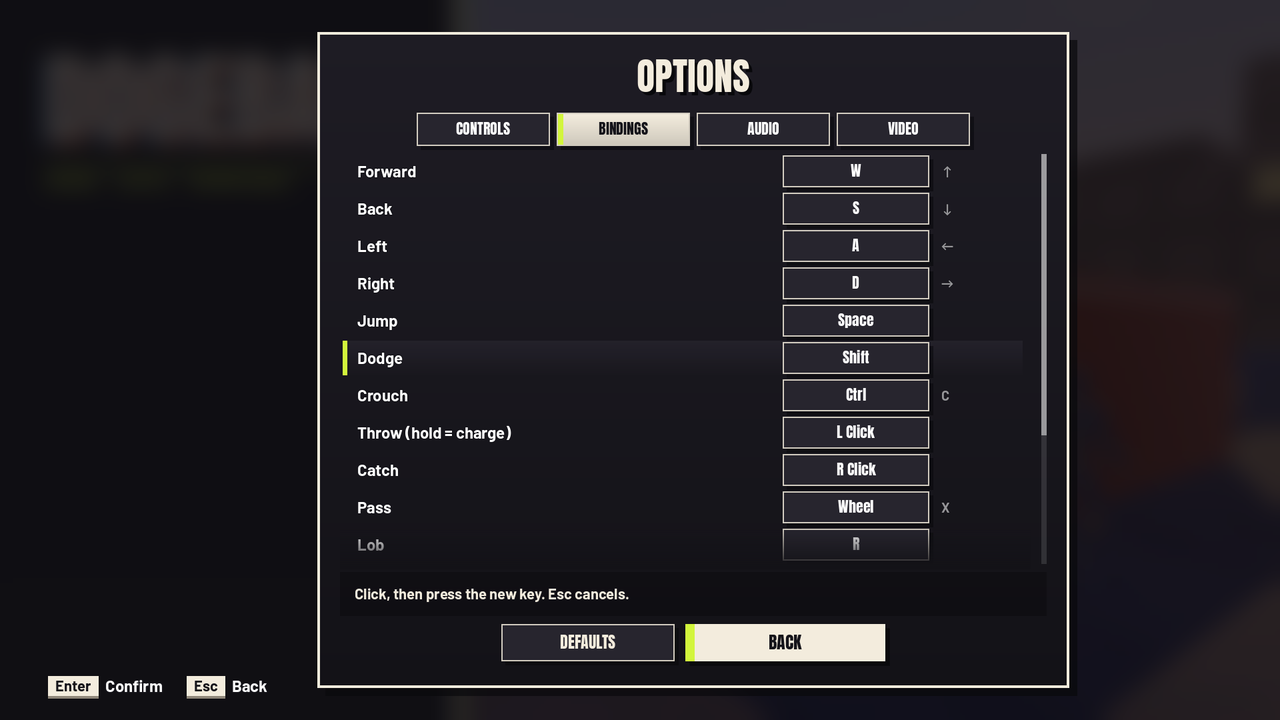
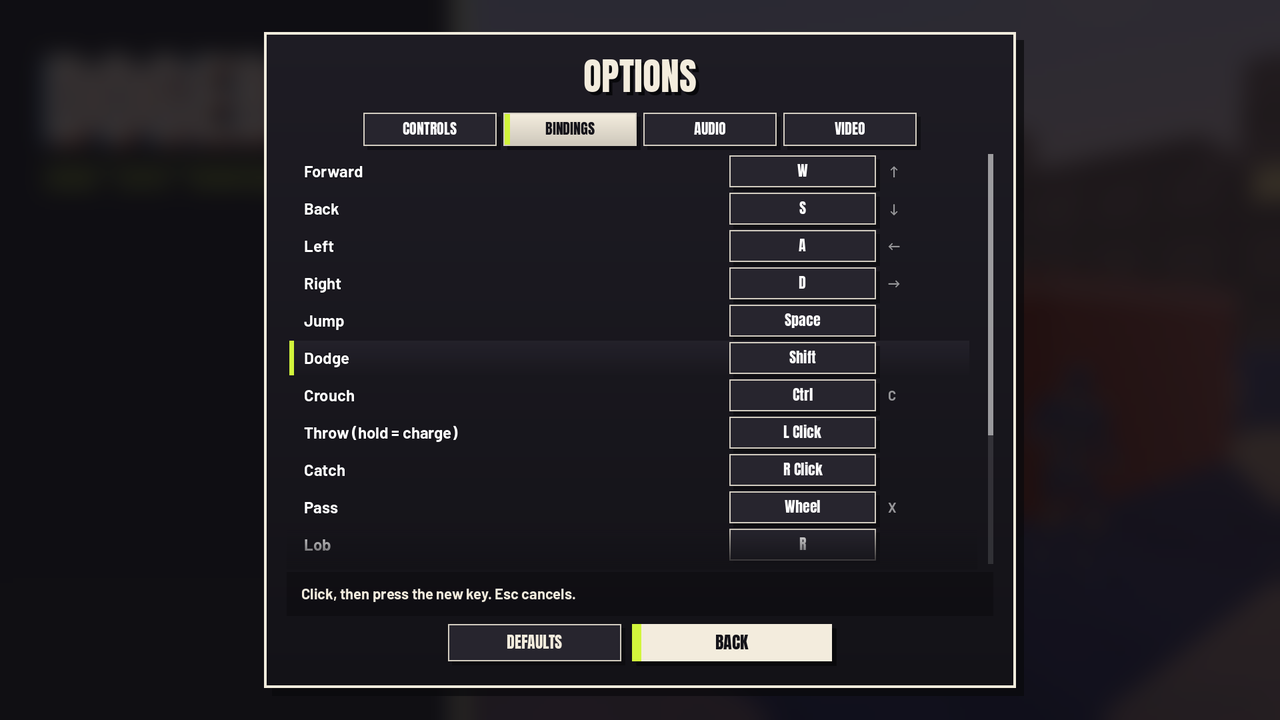
Anglais, 2e relecture : bot Nova, options dégagées, tournures
- Le bot « Comète » devient « Nova » : les noms ne sont plus traduits et
  « Comète » restait en français dans le jeu anglais (nom identique dans les deux
  langues, comme les sept autres).
- Options au menu principal : l'aide de touches du coin bas gauche est masquée
  tant qu'elles sont ouvertes (le panneau a son RETOUR et sa ligne d'aide) ; le
  panneau reste centré.
- Tournures : « total XP », « Close help », « Press a key… », « Code (LAN) »,
  « Connecting to host via Steam… », stat « KOs ».
- Captures : onglet CONTROLS en anglais (ON/OFF) et réseau local ajoutés.

Claude-Session: https://claude.ai/code/session_01JqDGHfY1Ly5jn7p42vhJBj

diff --git a/scripts/UI/MainMenu.cs b/scripts/UI/MainMenu.cs
@@ -126,7 +126,7 @@ public partial class MainMenu : CanvasLayer
         Music.PlayMenu();
         ShowMain();
         if (Tools.DevFlags.Has("--profile-test")) ShowProfile();   // captures
-        if (Tools.DevFlags.Has("--options-test")) OpenOverlay(new OptionsMenu { FirstTab = 1, ShiftRight = OptionsShift });
+        if (Tools.DevFlags.Has("--options-test")) OpenOverlay(new OptionsMenu { FirstTab = 1 });
         // Captures d'écran : --menu-page=online | lan | credits | first | maps ouvre la page au bout d'une seconde.
         foreach (var arg in Tools.DevFlags.Args)
             if (arg.StartsWith("--menu-page="))
@@ -250,7 +250,7 @@ public partial class MainMenu : CanvasLayer
             Item("ENTRAÎNEMENT", () => Leave(() => TutorialChosen?.Invoke())),
             Item("EN LIGNE", ShowOnline),
             Item("PROFIL", ShowProfile),
-            Item("OPTIONS", () => OpenOverlay(new OptionsMenu { ShiftRight = OptionsShift })),
+            Item("OPTIONS", () => OpenOverlay(new OptionsMenu())),
             UiKit.Spacer(14),
             Item("CRÉDITS", ShowCredits, false),
             Item("QUITTER", () => GetTree().Quit(), false));
@@ -476,14 +476,14 @@ public partial class MainMenu : CanvasLayer
         return holder;
     }
 
-    const float OptionsShift = 160f;   // options : panneau décalé de 80 px, l'aide « Échap Retour » ne touche plus son cadre
-
     void OpenOverlay(Control c)
     {
         CloseOverlay();
         column.Visible = false;
         overlay = c;
-        if (c is OptionsMenu o) o.Closed += () => { overlay = null; column.Visible = true; ShowMain(); };
+        // Options : leur panneau a son bouton RETOUR et sa ligne d'aide ; l'aide du coin bas gauche toucherait son cadre.
+        hintBar.Visible = c is not OptionsMenu;
+        if (c is OptionsMenu o) o.Closed += () => { overlay = null; column.Visible = true; hintBar.Visible = true; ShowMain(); };
         root.AddChild(c);
         root.MoveChild(hintBar, -1);
         root.MoveChild(fade, -1);

diff --git a/scripts/UI/OptionsMenu.cs b/scripts/UI/OptionsMenu.cs
@@ -28,9 +28,6 @@ public partial class OptionsMenu : Control
     int tab;
     string? listening;          // action en attente d'une nouvelle touche
     Button? listeningButton;
-    /// <summary>Décalage du panneau vers la droite (px) : au menu principal, il laisse la place aux aides de touches du coin bas gauche.</summary>
-    public float ShiftRight { get; set; }
-
     /// <summary>Onglet ouvert d'abord (captures : `--options-test` ouvre CLAVIER).</summary>
     public int FirstTab { get; set; }
 
@@ -99,7 +96,6 @@ public partial class OptionsMenu : Control
         var center = new CenterContainer { MouseFilter = MouseFilterEnum.Ignore };
         center.SetAnchorsAndOffsetsPreset(LayoutPreset.TopWide);
         center.OffsetTop = center.OffsetBottom = TopMargin;
-        center.OffsetLeft = ShiftRight;
         AddChild(center);
         panel = new PanelContainer { CustomMinimumSize = new Vector2(1120, 0) };
         panel.AddThemeStyleboxOverride("panel", UiKit.PanelBox(22, 34));   // opaque : la fenêtre du menu principal

diff --git a/scripts/Gameplay/MatchView.cs b/scripts/Gameplay/MatchView.cs
@@ -157,7 +157,7 @@ public sealed class MatchView
     public string NameOf(int id) => id == LocalId ? DogeballVR.UI.L.T("Toi") : HumanName?.Invoke(id) is { Length: > 0 } n ? n : isBot?.Invoke(id) == true ? BotName(id) : DogeballVR.UI.L.F("Joueur {0}", id + 1);
 
     /// <summary>Surnoms des bots, à la façon des joueurs de rue : un par numéro de zone (toujours le même d'une partie à l'autre).</summary>
-    static readonly string[] BotNames = { "Rafale", "Mistral", "Bolt", "Turbo", "Comète", "Ricochet", "Zigzag", "Volt" };
+    static readonly string[] BotNames = { "Rafale", "Mistral", "Bolt", "Turbo", "Nova", "Ricochet", "Zigzag", "Volt" };
     /// <summary>Surnom du bot qui tient la zone <paramref name="id"/> (étiquettes, fil des KO, tableaux, bandeaux).</summary>
     public static string BotName(int id) => BotNames[((id % BotNames.Length) + BotNames.Length) % BotNames.Length];
     public int TeamOf(int id) { foreach (var p in Players) if (p.Id == id) return p.Team; return -1; }
